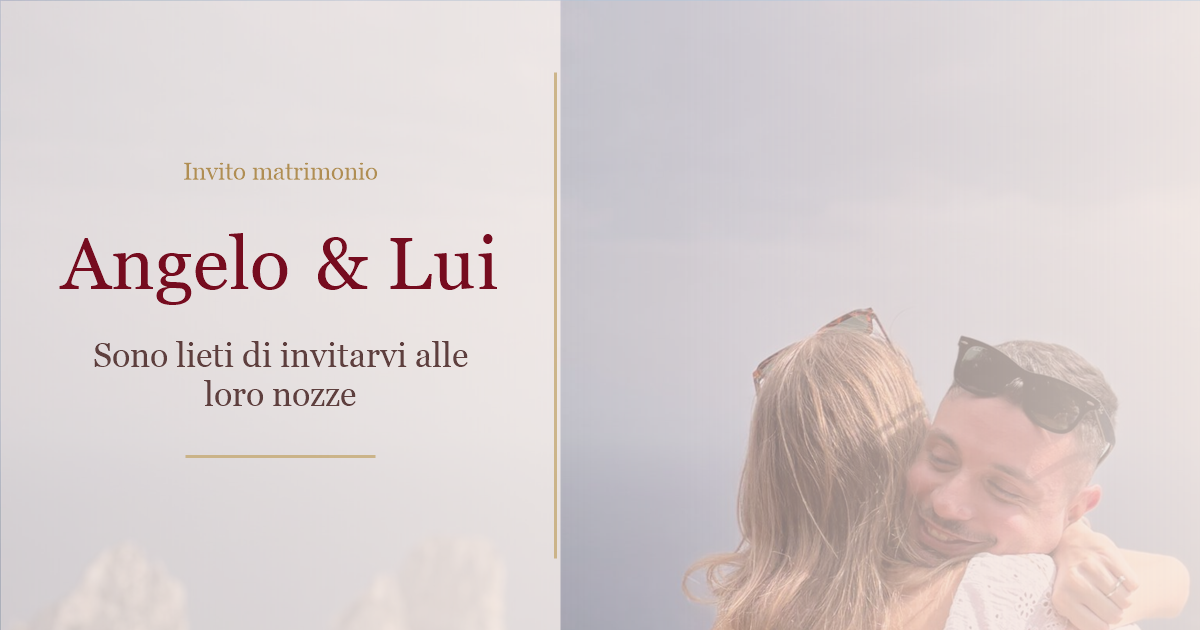
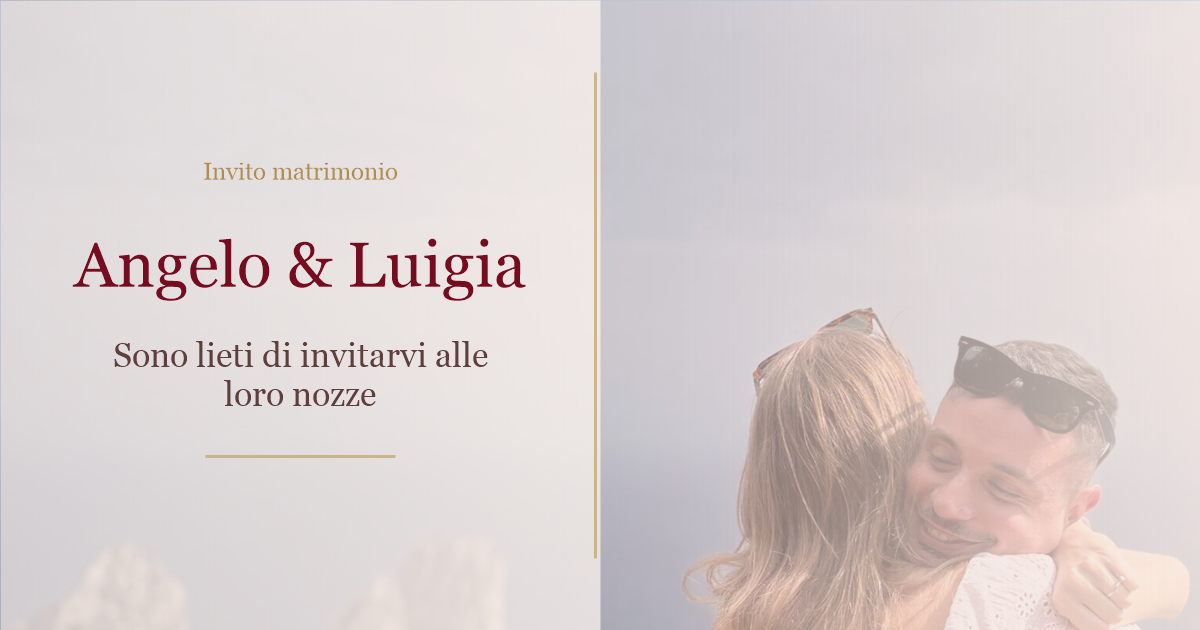
Ottimizza preview WhatsApp invito italiano

Changed region(s): [[0.0308, 0.0, 0.5242, 1.0], [0.0617, 0.5429, 0.4008, 0.6635], [0.1542, 0.2413, 0.3392, 0.3016]]

diff --git a/index.html b/index.html
@@ -12,16 +12,20 @@
     <meta property="og:description" content="__OG_DESCRIPTION__" />
     <meta property="og:image" content="__OG_IMAGE__" />
     <meta property="og:image:secure_url" content="__OG_IMAGE__" />
+    <meta property="og:image:url" content="__OG_IMAGE__" />
     <meta property="og:image:width" content="__OG_IMAGE_WIDTH__" />
     <meta property="og:image:height" content="__OG_IMAGE_HEIGHT__" />
     <meta property="og:image:type" content="__OG_IMAGE_TYPE__" />
+    <meta property="og:image:alt" content="__OG_TITLE__" />
     <meta property="og:url" content="__OG_URL__" />
     <meta property="og:type" content="website" />
+    <meta property="og:site_name" content="__OG_TITLE__" />
 
     <meta name="twitter:card" content="summary_large_image" />
     <meta name="twitter:title" content="__OG_TITLE__" />
     <meta name="twitter:description" content="__OG_DESCRIPTION__" />
     <meta name="twitter:image" content="__OG_IMAGE__" />
+    <meta name="twitter:image:alt" content="__OG_TITLE__" />
 
     <meta name="theme-color" content="__THEME_COLOR__" />
 

diff --git a/src/data/event.js b/src/data/event.js
@@ -1,12 +1,12 @@
 export const event = {
   meta: {
     pageTitle: "Invito matrimonio Angelo e Luigia",
-    shareTitle: "Invito Angelo e Luigia",
+    shareTitle: "Angelo & Luigia",
     shareDescription: "Saremo felici di condividere con voi il giorno delle nostre nozze.",
-    shareImage: "https://invito-evento-omega.vercel.app/images/link-preview.png",
+    shareImage: "https://invito-evento-omega.vercel.app/images/link-preview-whatsapp.jpg",
     shareImageWidth: "1200",
     shareImageHeight: "630",
-    shareImageType: "image/png",
+    shareImageType: "image/jpeg",
     siteUrl: "https://invito-evento-omega.vercel.app",
     themeColor: "#7f171f",
     favicon: "/vite.svg",
